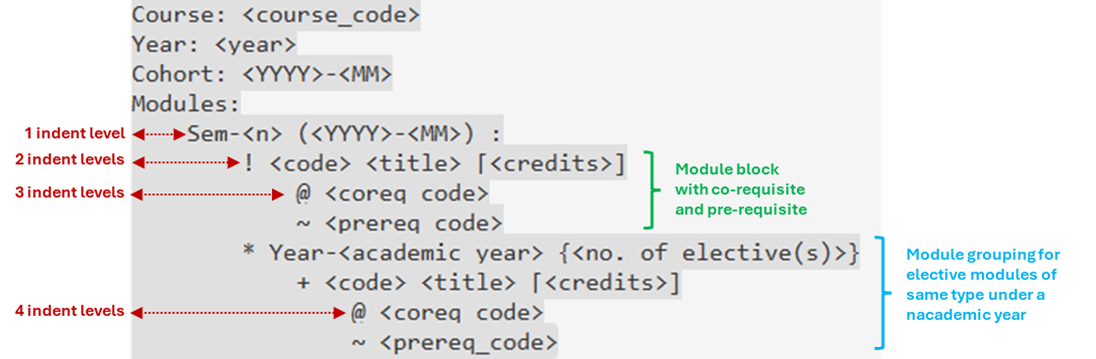
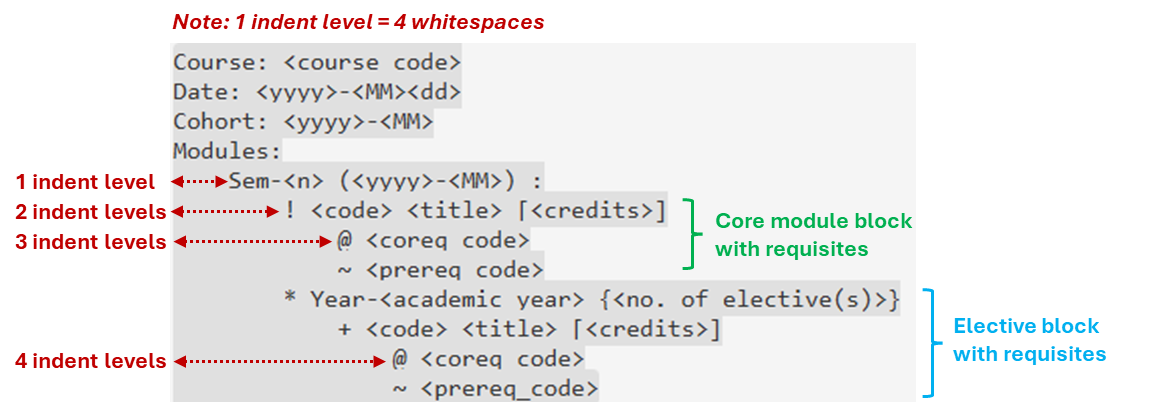
Changed the year field to creation date

Changed region(s): [[0.0, 0.0, 0.9617, 1.0], [0.7755, 0.9499, 0.8066, 1.0]]

diff --git a/index.html b/index.html
@@ -67,14 +67,14 @@
 <!--                <td><code>Course: 481BCS-SA</code></td>-->
             </tr>
             <tr>
-                <td onmouseover="highlightText(this, true, 'academic-year')" onmouseout="highlightText(this, false, 'academic-year')">Academic Year <span class="info-icon" title="More information">i</span></td>
-                <td><code>Year: &lt;year&gt;</code></td>
-                <td>Four-digit year in <code>YYYY</code> format</td>
+                <td onmouseover="highlightText(this, true, 'creation-date')" onmouseout="highlightText(this, false, 'creation-date')">Creation Date <span class="info-icon" title="More information">i</span></td>
+                <td><code>Date: &lt;yyyy&gt;-&lt;MM&gt;-&lt;dd&gt;</code></td>
+                <td>Date of creation for this subject plan in <code>yyyy-MM-dd</code> format</td>
 <!--                <td><code>Year: 2024</code></td>-->
             </tr>
             <tr>
                 <td onmouseover="highlightText(this, true, 'cohort')" onmouseout="highlightText(this, false, 'cohort')">Cohort <span class="info-icon" title="More information">i</span></td>
-                <td><code>Cohort: &lt;YYYY&gt;-&lt;MM&gt;</code></td>
+                <td><code>Cohort: &lt;yyyy&gt;-&lt;MM&gt;</code></td>
                 <td>Cohort year and month (hyphen-separated)</td>
 <!--                <td><code>Cohort: 2024-09</code></td>-->
             </tr>
@@ -89,7 +89,7 @@
 
         <div class="code-block">
     <pre><code><span class="course">Course: 481BCS-SA</span>
-<span class="academic-year">Year: 2024</span>
+<span class="creation-date">Date: 2024-01-01</span>
 <span class="cohort">Cohort: 2024-09</span>
 <span class="modules">Modules:</span></code></pre>
         </div>
@@ -116,7 +116,7 @@
             <tbody>
                 <tr>
                     <td onmouseover="highlightText(this, true, 'semester')" onmouseout="highlightText(this, false, 'semester')">Semester <span class="info-icon" title="More information">i</span></td>
-                    <td><code>Sem-&lt;number&gt; (&lt;YYYY&gt;-&lt;MM&gt;):</code></td>
+                    <td><code>Sem-&lt;number&gt; (&lt;yyyy&gt;-&lt;MM&gt;):</code></td>
                     <td>Semester number with year-month</td>
     <!--                <td><code>Sem-1 (2024-09):</code></td>-->
                 </tr>
@@ -237,7 +237,7 @@ Modules:
 <details>
     <summary>Subject Plan [Longer Version]</summary>
 <pre><code>Course : 481BCS1-SA
-Year : 2024
+Date : 2022-01-01
 Cohort : 2022-04
 Modules:
     Sem-1 (2022-08):
